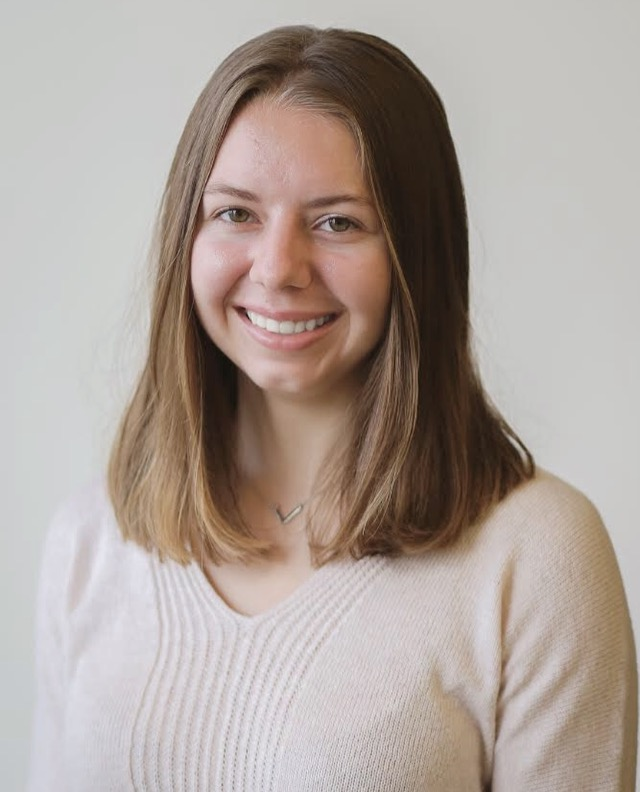
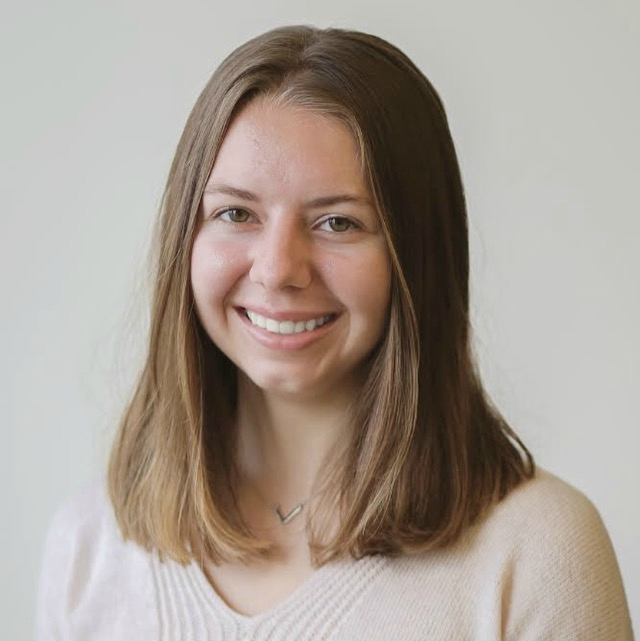
updated about us

diff --git a/aboutus.html b/aboutus.html
@@ -20,39 +20,37 @@
   <br> <br> <br>
 
     <h1>ABOUT OUR TEAM</h1>
-    <!--<img style="width:304px;height:228px;" id="groupPicture" src="resources/group1.JPG"></img>-->
+    <!--img style="width:304px;height:228px;" id="groupPicture" src="resources/group1.JPG"></img-->
     <p id="bio1">Hi, we're Nadean, Pawandeep, Annika, and Nisha. We're from the Girls Who Code program at Synchrony Financial in Chicago.
       We created this project to help users become more environmentally active in an interactive way. We hope our network helps
       bring awareness to simple ways that people can reduce their carbon footprint and waste.
     </p>
     <br>
-
-
   <section id="allbios">
   <div class="ourBios">
     <img src="resources/nadeanhead.jpg">
     <h2>NADEAN GHOULEH</h2>
-    <p>Hey it's Nadean, I am currently a junior at Universal school. I honestly joined Girls Who Code to try something new and meet new people, which I did. The best part about the program was interacting with everyone. Some activities I enjoy are engaging in outdoor activities, spending time with family and friends, drawing, and reading. I appreciate everyone who encouraged me to get involved with Girls Who Code, it was truly a great experience. </p>
+    <p class="left">Hey it's Nadean, I am currently a junior at Universal school. I honestly joined Girls Who Code to try something new and meet new people, which I did. The best part about the program was interacting with everyone. Some activities I enjoy are engaging in outdoor activities, spending time with family and friends, drawing, and reading. I appreciate everyone who encouraged me to get involved with Girls Who Code, it was truly a great experience. </p>
   </div>
     <br>
   <div class="ourBios">
-    <img src="resources/nadeanhead.jpg">
+    <img src="resources/pawandeephead.jpg">
     <h2>PAWANDEEP KAUR</h2>
-    <p>Hey guys I'm Pawandeep and I'm a senior at Waukegan High School. I love to read books, watch YouTubers, tv shows, and listen to music.
+    <p class="left">Hey guys I'm Pawandeep and I'm a senior at Waukegan High School. I love to read books, watch YouTubers, tv shows, and listen to music.
     Shoutout to Girls Who Code for this great opportunity. </p>
   </div>
     <br>
   <div class="ourBios">
     <img src="resources/annikahead.jpg">
     <h2>ANNIKA LAFYATIS</h2>
-    <p>I'm Annika, and I'm a senior at Conant High School. My favorite language is Python and my favorite animals are cats. Besides coding, I enjoy reading,
+    <p class="left">I'm Annika, and I'm a senior at Conant High School. My favorite language is Python and my favorite animals are cats. Besides coding, I enjoy reading,
     spending time with friends, and playing soccer. Thank you to my teachers and family who have encouraged my interest in computer science. </p>
   </div>
     <br>
   <div class="ourBios">
     <img src="resources/nishahead.jpg">
     <h2>NISHA PANT</h2>
-    <p>Hey! I'm Nisha, a junior at Conant High School. I am interested in web design and back-end development. When I'm not programming, you can find me running, taking photos, reading, trying new foods and listening to music. I plan to pursue computer science in college. </p>
+    <p class="left">Hey! I'm Nisha, a junior at Conant High School. I am interested in web design and back-end development. When I'm not programming, you can find me running, taking photos, reading, trying new foods and listening to music. I plan to pursue computer science in college. </p>
   </div>
   </section>
 

diff --git a/aboutstyle.css b/aboutstyle.css
@@ -29,16 +29,20 @@ body{
         }
 
 #bio1 {
-  margin-left: 100px;
-  margin-right: 100px;
+  width: 70%;
+  margin: 40px auto;
+  font-size: 18px;
+  line-height: 200%;
 }
 
 .ourBios {
-  width: 23%;
+  width: 22%;
   height: auto;
   margin-left: 20px;
+  margin-right: 20px;
   display: inline-block;
   vertical-align: top;
+  text-align: center;
 }
 
 #allbios {
@@ -48,7 +52,7 @@ body{
   -ms-flex-grow: 0;
   flex-wrap: wrap;
   width: 95%;
-  margin-left: 3%;
+  margin:0 auto;
 }
 
 #groupPicture{
@@ -64,6 +68,13 @@ h2,  h1{
 }
 
 img{
-  width: 30%;
+  width: 55%;
   margin: 0 auto;
+  border-radius: 50%;
+}
+
+.left{
+  text-align: left;
+  font-size: 18px;
+  line-height: 200%;
 }
